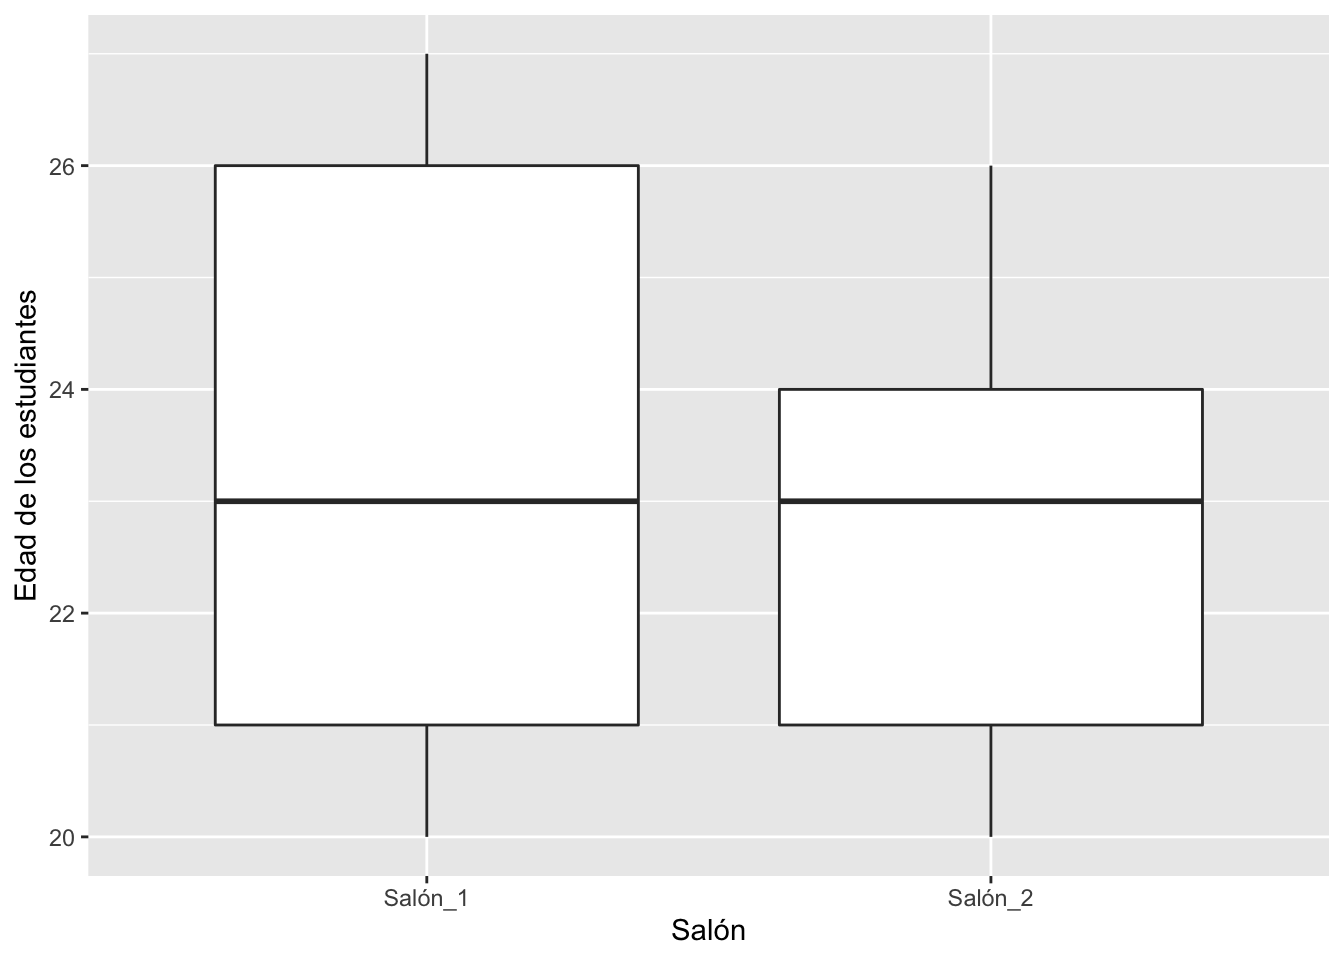
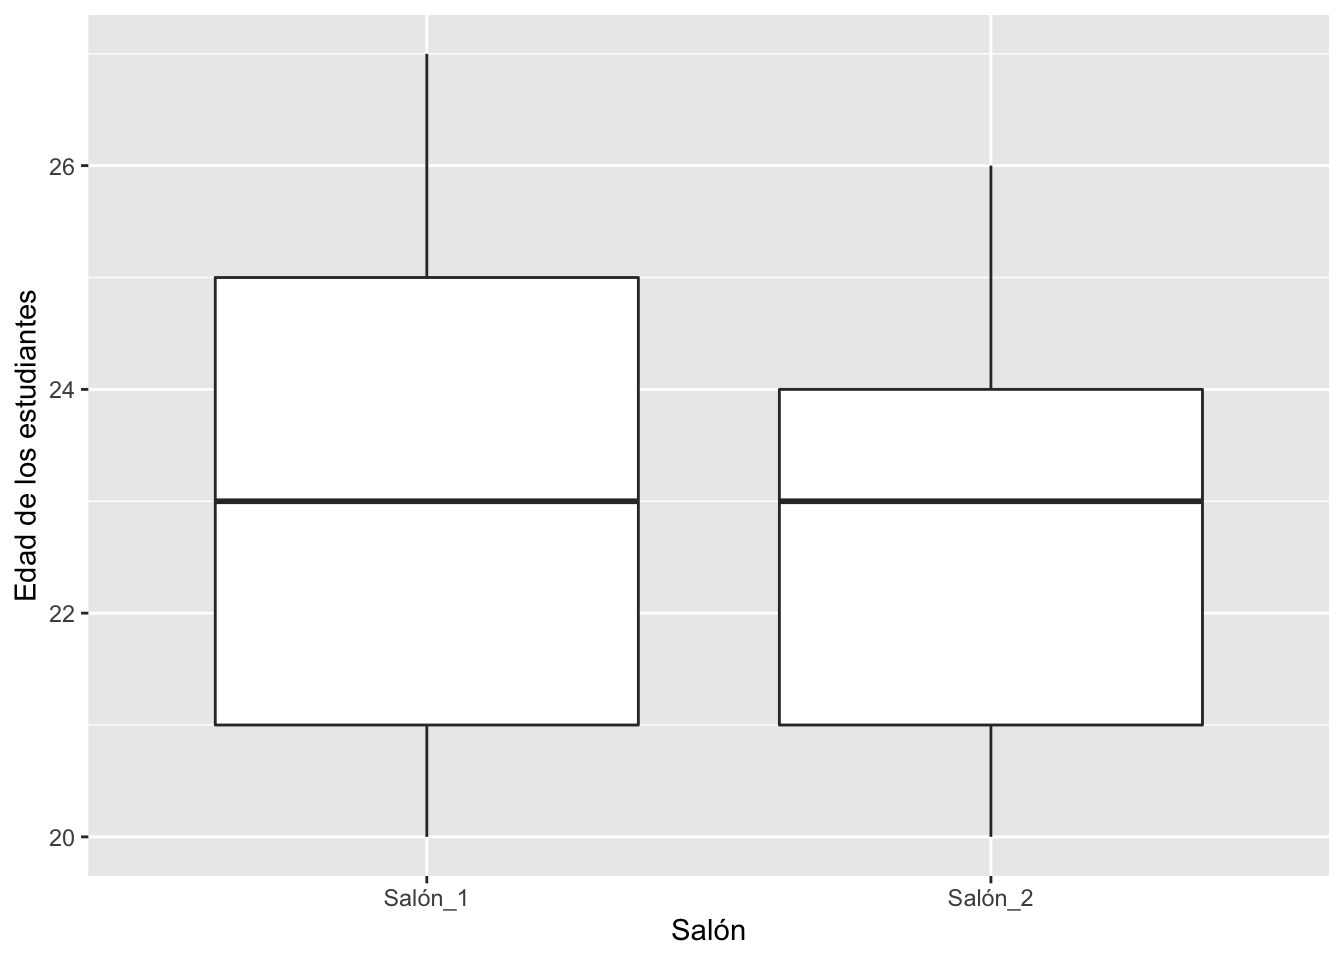
Remove Transformation

Changed region(s): [[0.1562, 0.1562, 0.5, 0.3125]]

diff --git a/G1-ggplot2.html b/G1-ggplot2.html
@@ -558,17 +558,17 @@ div.tocify {
 <p>Veamos un ejemplo. Si uno lista las edades de estudiantes universitarios de dos salones, tendremos el reto de intentar discernir si sus edades son aproximadamente iguales o diferentes solo al mirar la lista. ¿Será posible? A ver, intenta explicar cuál es la diferencia (si existe alguna) en las edades de las dos listas siguientes.</p>
 <p>Edades del salón 1:</p>
 <pre><code>## $V1
-##   [1] 23 25 27 22 20 24 25 20 27 23 22 23 20 20 27 24 22 20 27 26 24 23 26 22 27
-##  [26] 24 23 21 26 23 22 25 22 25 26 21 20 24 21 26 27 22 21 21 26 24 23 22 21 24
-##  [51] 20 21 21 21 20 20 23 23 22 22 21 20 21 26 26 20 25 27 24 24 21 21 22 23 23
-##  [76] 27 24 24 25 24 22 27 26 26 26 25 24 21 26 26 21 27 27 27 23 25 26 21 23 21</code></pre>
+##   [1] 25 26 24 20 26 23 26 23 23 20 23 27 26 26 23 21 23 23 24 26 27 23 22 21 22
+##  [26] 21 24 27 20 24 23 26 23 21 26 23 20 25 20 20 20 22 25 23 26 22 22 21 23 24
+##  [51] 21 23 21 26 26 24 21 23 24 21 23 27 24 24 20 20 27 25 21 21 26 27 26 21 20
+##  [76] 23 20 25 22 25 22 23 26 26 23 20 24 25 23 23 21 24 25 22 27 24 27 22 20 26</code></pre>
 <hr />
 <p>Edades del salón 2:</p>
 <pre><code>## $V1
-##   [1] 23 23 24 23 25 24 22 21 22 22 21 23 23 23 25 25 26 23 22 26 24 23 20 21 23
-##  [26] 23 23 20 21 21 23 24 25 24 20 22 23 23 22 23 20 21 26 23 20 20 24 22 21 22
-##  [51] 24 23 23 23 26 20 24 26 20 22 26 23 22 23 25 23 20 24 20 20 24 20 20 21 20
-##  [76] 23 21 23 21 20 22 21 25 24 20 25 23 20 22 26 24 24 24 24 20 23 21 21 26 23</code></pre>
+##   [1] 20 24 21 25 23 25 20 23 20 23 22 24 23 26 25 23 26 24 20 26 21 24 21 24 21
+##  [26] 20 20 22 23 26 25 21 23 22 24 20 20 23 22 24 22 25 22 20 20 21 24 26 21 24
+##  [51] 23 22 25 21 20 24 21 26 22 20 20 24 23 25 23 21 24 20 22 26 22 22 22 23 22
+##  [76] 22 21 22 26 26 21 23 22 24 25 26 25 20 24 23 24 24 25 24 20 22 26 20 22 23</code></pre>
 <p>Probablemente notes que no es evidente a primera vista cuál es la diferencia entre las dos listas de datos. Necesitamos ayuda para visualizar la diferencia. A continuación se explican un par de maneras de ver esa misma información.</p>
 <hr />
 <div id="resumir-la-información-en-tablas" class="section level2">
@@ -941,13 +941,13 @@ df%&gt;%
   <tbody class="gt_table_body">
     <tr>
       <td class="gt_row gt_left">Salón_1</td>
-      <td class="gt_row gt_right">23.40</td>
+      <td class="gt_row gt_right">23.34</td>
       <td class="gt_row gt_center">20</td>
       <td class="gt_row gt_center">27</td>
     </tr>
     <tr>
       <td class="gt_row gt_left">Salón_2</td>
-      <td class="gt_row gt_right">22.61</td>
+      <td class="gt_row gt_right">22.77</td>
       <td class="gt_row gt_center">20</td>
       <td class="gt_row gt_center">26</td>
     </tr>
